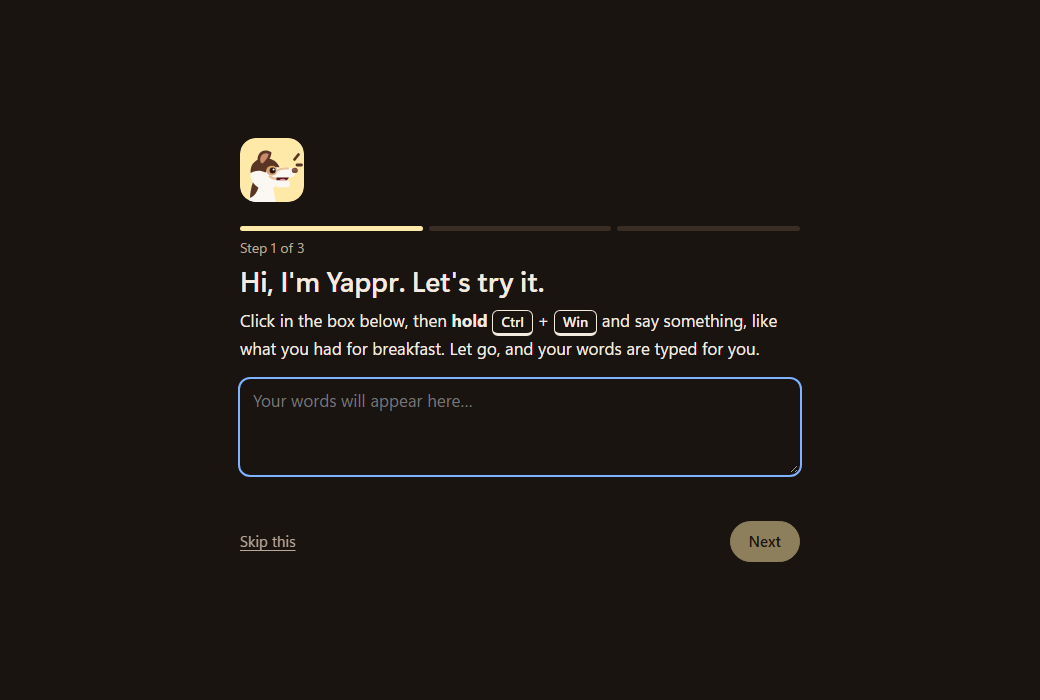
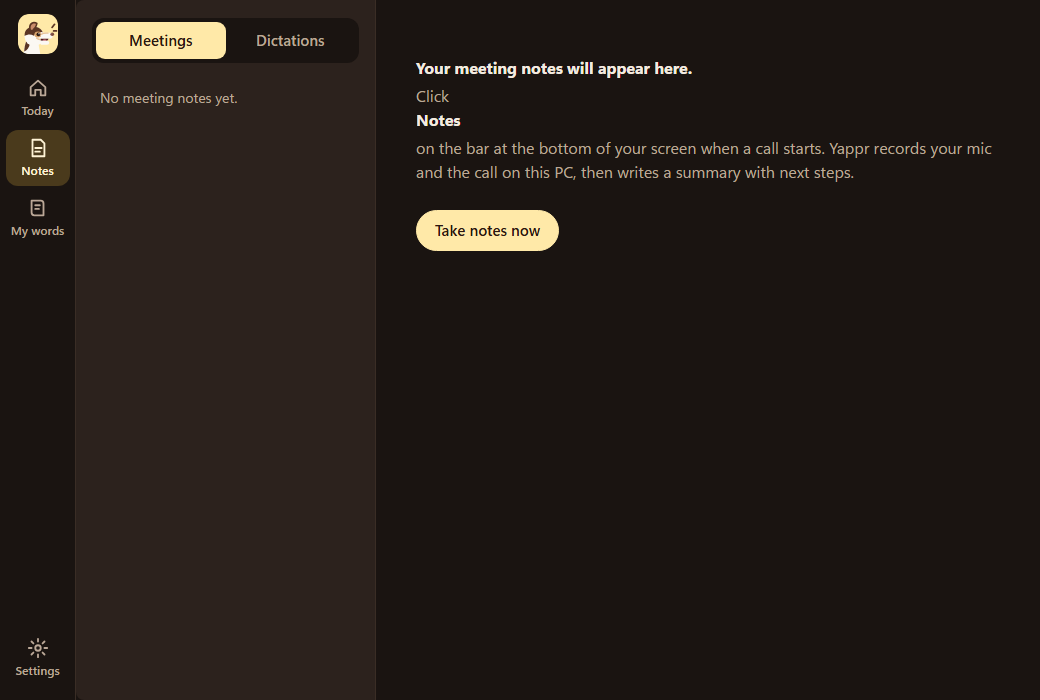
D2: before/after review page for owner sign-off

diff --git a/loop-ui/review.html b/loop-ui/review.html
@@ -1,0 +1,79 @@
+<!doctype html><html lang="en"><head><meta charset="utf-8"><meta name="viewport" content="width=device-width,initial-scale=1">
+<title>Yappr redesign: before and after</title>
+<style>
+:root{--bg:#fbf8f3;--ink:#2a1810;--muted:#6b574b;--line:#ebe2d6;--hi:#ffe9a8}
+@media (prefers-color-scheme:dark){:root{--bg:#1a1411;--ink:#f4ebe0;--muted:#bba897;--line:#3a2d25;--hi:#4a3a1c}}
+body{margin:0;background:var(--bg);color:var(--ink);font:17px/1.55 "Segoe UI Variable Text","Segoe UI",system-ui,sans-serif}
+.wrap{max-width:1200px;margin:0 auto;padding:28px 22px 80px}
+h1{font-size:30px;margin:0 0 6px}h2{font-size:22px;margin:40px 0 6px}p{max-width:72ch;margin:0 0 10px}.muted{color:var(--muted)}
+.ask{background:var(--hi);border-radius:14px;padding:16px 20px;margin:18px 0}
+.pair{display:grid;grid-template-columns:1fr 1fr;gap:18px;align-items:start;margin:12px 0}
+.grid{display:grid;grid-template-columns:repeat(auto-fill,minmax(320px,1fr));gap:16px;margin:12px 0}
+figure{margin:0}figcaption{font-size:14px;color:var(--muted);margin-top:4px}
+img{max-width:100%;border:1px solid var(--line);border-radius:10px;display:block;background:#fff}
+.tag{display:inline-block;font-size:13px;font-weight:700;padding:1px 10px;border-radius:999px;background:var(--line)}
+@media (max-width:760px){.pair{grid-template-columns:1fr}}
+</style></head><body><div class="wrap">
+<h1>Yappr redesign: before and after</h1>
+<p class="muted">For your sign-off on D2 ("every visible surface uses the chosen design"). Screens marked <b>live</b> are captures of the real app; the rest are the same page rendered with clearly fake example data.</p>
+<div class="ask"><b>What I need from you:</b> look through each section and say "signed off" or what to change. That's the last open item.</div>
+
+<h2>The bar</h2>
+<p>Skip sits in the bar; his ears go up while he's listening. Drag it anywhere (it remembers), right-click to hide it, or hide it from the tray or Settings.</p>
+<figure><img src="shots/_bar-before-after.png" alt="Before and after of every bar state and the meeting prompt"><figcaption>Before (left) and after (right): ready, listening, hands-free, typing, pasted, meeting soon, taking notes, and the meeting prompt. Live captures.</figcaption></figure>
+<div class="grid">
+<figure><img src="shots/skip-poses.png" alt="Skip resting and with ears up"><figcaption>Skip resting / listening (ears up)</figcaption></figure>
+<figure><img src="shots/after/bar-moved.png" alt="Bar dragged up the screen"><figcaption><span class="tag">live</span> dragged up and left; same spot after a restart</figcaption></figure>
+<figure><img src="shots/after/bar-menu.png" alt="Right-click menu of the bar"><figcaption><span class="tag">live</span> right-click: Open Yappr / Hide the bar / Move it back</figcaption></figure>
+</div>
+
+<h2>First run</h2>
+<div class="grid">
+<figure><img src="shots/first-run-1-welcome.png" alt=""><figcaption><span class="tag">live</span> opens by itself on a new install</figcaption></figure>
+<figure><img src="shots/first-run-2-dictated.png" alt=""><figcaption><span class="tag">live</span> first dictation lands in the box</figcaption></figure>
+<figure><img src="shots/first-run-3-ai-step.png" alt=""><figcaption><span class="tag">live</span> optional AI helper</figcaption></figure>
+<figure><img src="shots/first-run-5-meetings-step.png" alt=""><figcaption><span class="tag">live</span> meeting notes + calendar (optional)</figcaption></figure>
+<figure><img src="shots/first-run-6-today.png" alt=""><figcaption><span class="tag">live</span> lands on Today with the setup checklist</figcaption></figure>
+<figure><img src="shots/welcome-1-dark.png" alt=""><figcaption>dark mode</figcaption></figure>
+</div>
+
+<h2>Today</h2>
+<div class="pair">
+<figure><img src="shots/today-light.png" alt=""><figcaption>light</figcaption></figure>
+<figure><img src="shots/today-new-dark.png" alt=""><figcaption>dark, with setup checklist</figcaption></figure>
+</div>
+<figure><img src="shots/first-run-8-today-during-meeting.png" alt=""><figcaption><span class="tag">live</span> while taking notes</figcaption></figure>
+
+<h2>Notes (meetings and dictation history)</h2>
+<p class="muted">Before: a list of folder names and a plain text box in Settings → Meetings / History.</p>
+<div class="pair">
+<figure><img src="shots/before/settings-meetings.png" alt=""><figcaption>before: Settings → Meetings</figcaption></figure>
+<figure><img src="shots/notes-meeting-light.png" alt=""><figcaption>after: Notes reader</figcaption></figure>
+<figure><img src="shots/before/settings-history.png" alt=""><figcaption>before: Settings → History</figcaption></figure>
+<figure><img src="shots/notes-dictation-dark.png" alt=""><figcaption>after: Notes → Dictations (dark)</figcaption></figure>
+</div>
+<div class="grid"><figure><img src="shots/first-run-9-notes.png" alt=""><figcaption><span class="tag">live</span> real meeting notes (summary came from the local fake AI, so it's placeholder text)</figcaption></figure>
+<figure><img src="shots/notes-empty-light.png" alt=""><figcaption>empty state</figcaption></figure></div>
+
+<h2>My words (was "Dictionary")</h2>
+<div class="pair">
+<figure><img src="shots/before/settings-dictionary.png" alt=""><figcaption>before</figcaption></figure>
+<figure><img src="shots/words-light.png" alt=""><figcaption>after</figcaption></figure>
+</div>
+
+<h2>Settings</h2>
+<div class="grid">
+<figure><img src="shots/before/settings-ai.png" alt=""><figcaption>before: AI cleanup</figcaption></figure>
+<figure><img src="shots/before/settings-read-aloud.png" alt=""><figcaption>before: Read aloud</figcaption></figure>
+<figure><img src="shots/before/settings-general.png" alt=""><figcaption>before: General</figcaption></figure>
+</div>
+<div class="pair">
+<figure><img src="shots/settings-light.png" alt=""><figcaption>after: one page (AI helper, Meetings, Read aloud, General, Shortcuts), light</figcaption></figure>
+<figure><img src="shots/settings-dark.png" alt=""><figcaption>after, dark</figcaption></figure>
+</div>
+
+<h2>Tray menu and installer</h2>
+<p><b>Tray menu</b> (Windows draws it, so it follows your Windows theme): Open Yappr · Take meeting notes / Stop meeting notes · Paste last dictation · Hide the bar / Show the bar · (Stop reading aloud, while reading) · Meeting notes · Settings · Quit Yappr. Before: Start note-taker · Paste last dictation · Open meeting notes folder · Settings… · Quit Yappr.</p>
+<p><b>Installer</b>: four numbered steps in plain words ("Downloading the speech engine… It runs on this PC, so your voice never leaves it."), a checkmark after each, then "All set." and it starts Yappr, which opens the welcome. Before: it ended by telling you to right-click the bar and paste an API key. Not run end to end here (it would reinstall into your environment): checked by PowerShell's parser; worth one real run on a clean machine.</p>
+<p class="muted">Not changed: Skip's icon (Start Menu, taskbar, tray) is the one from the rename.</p>
+</div></body></html>
